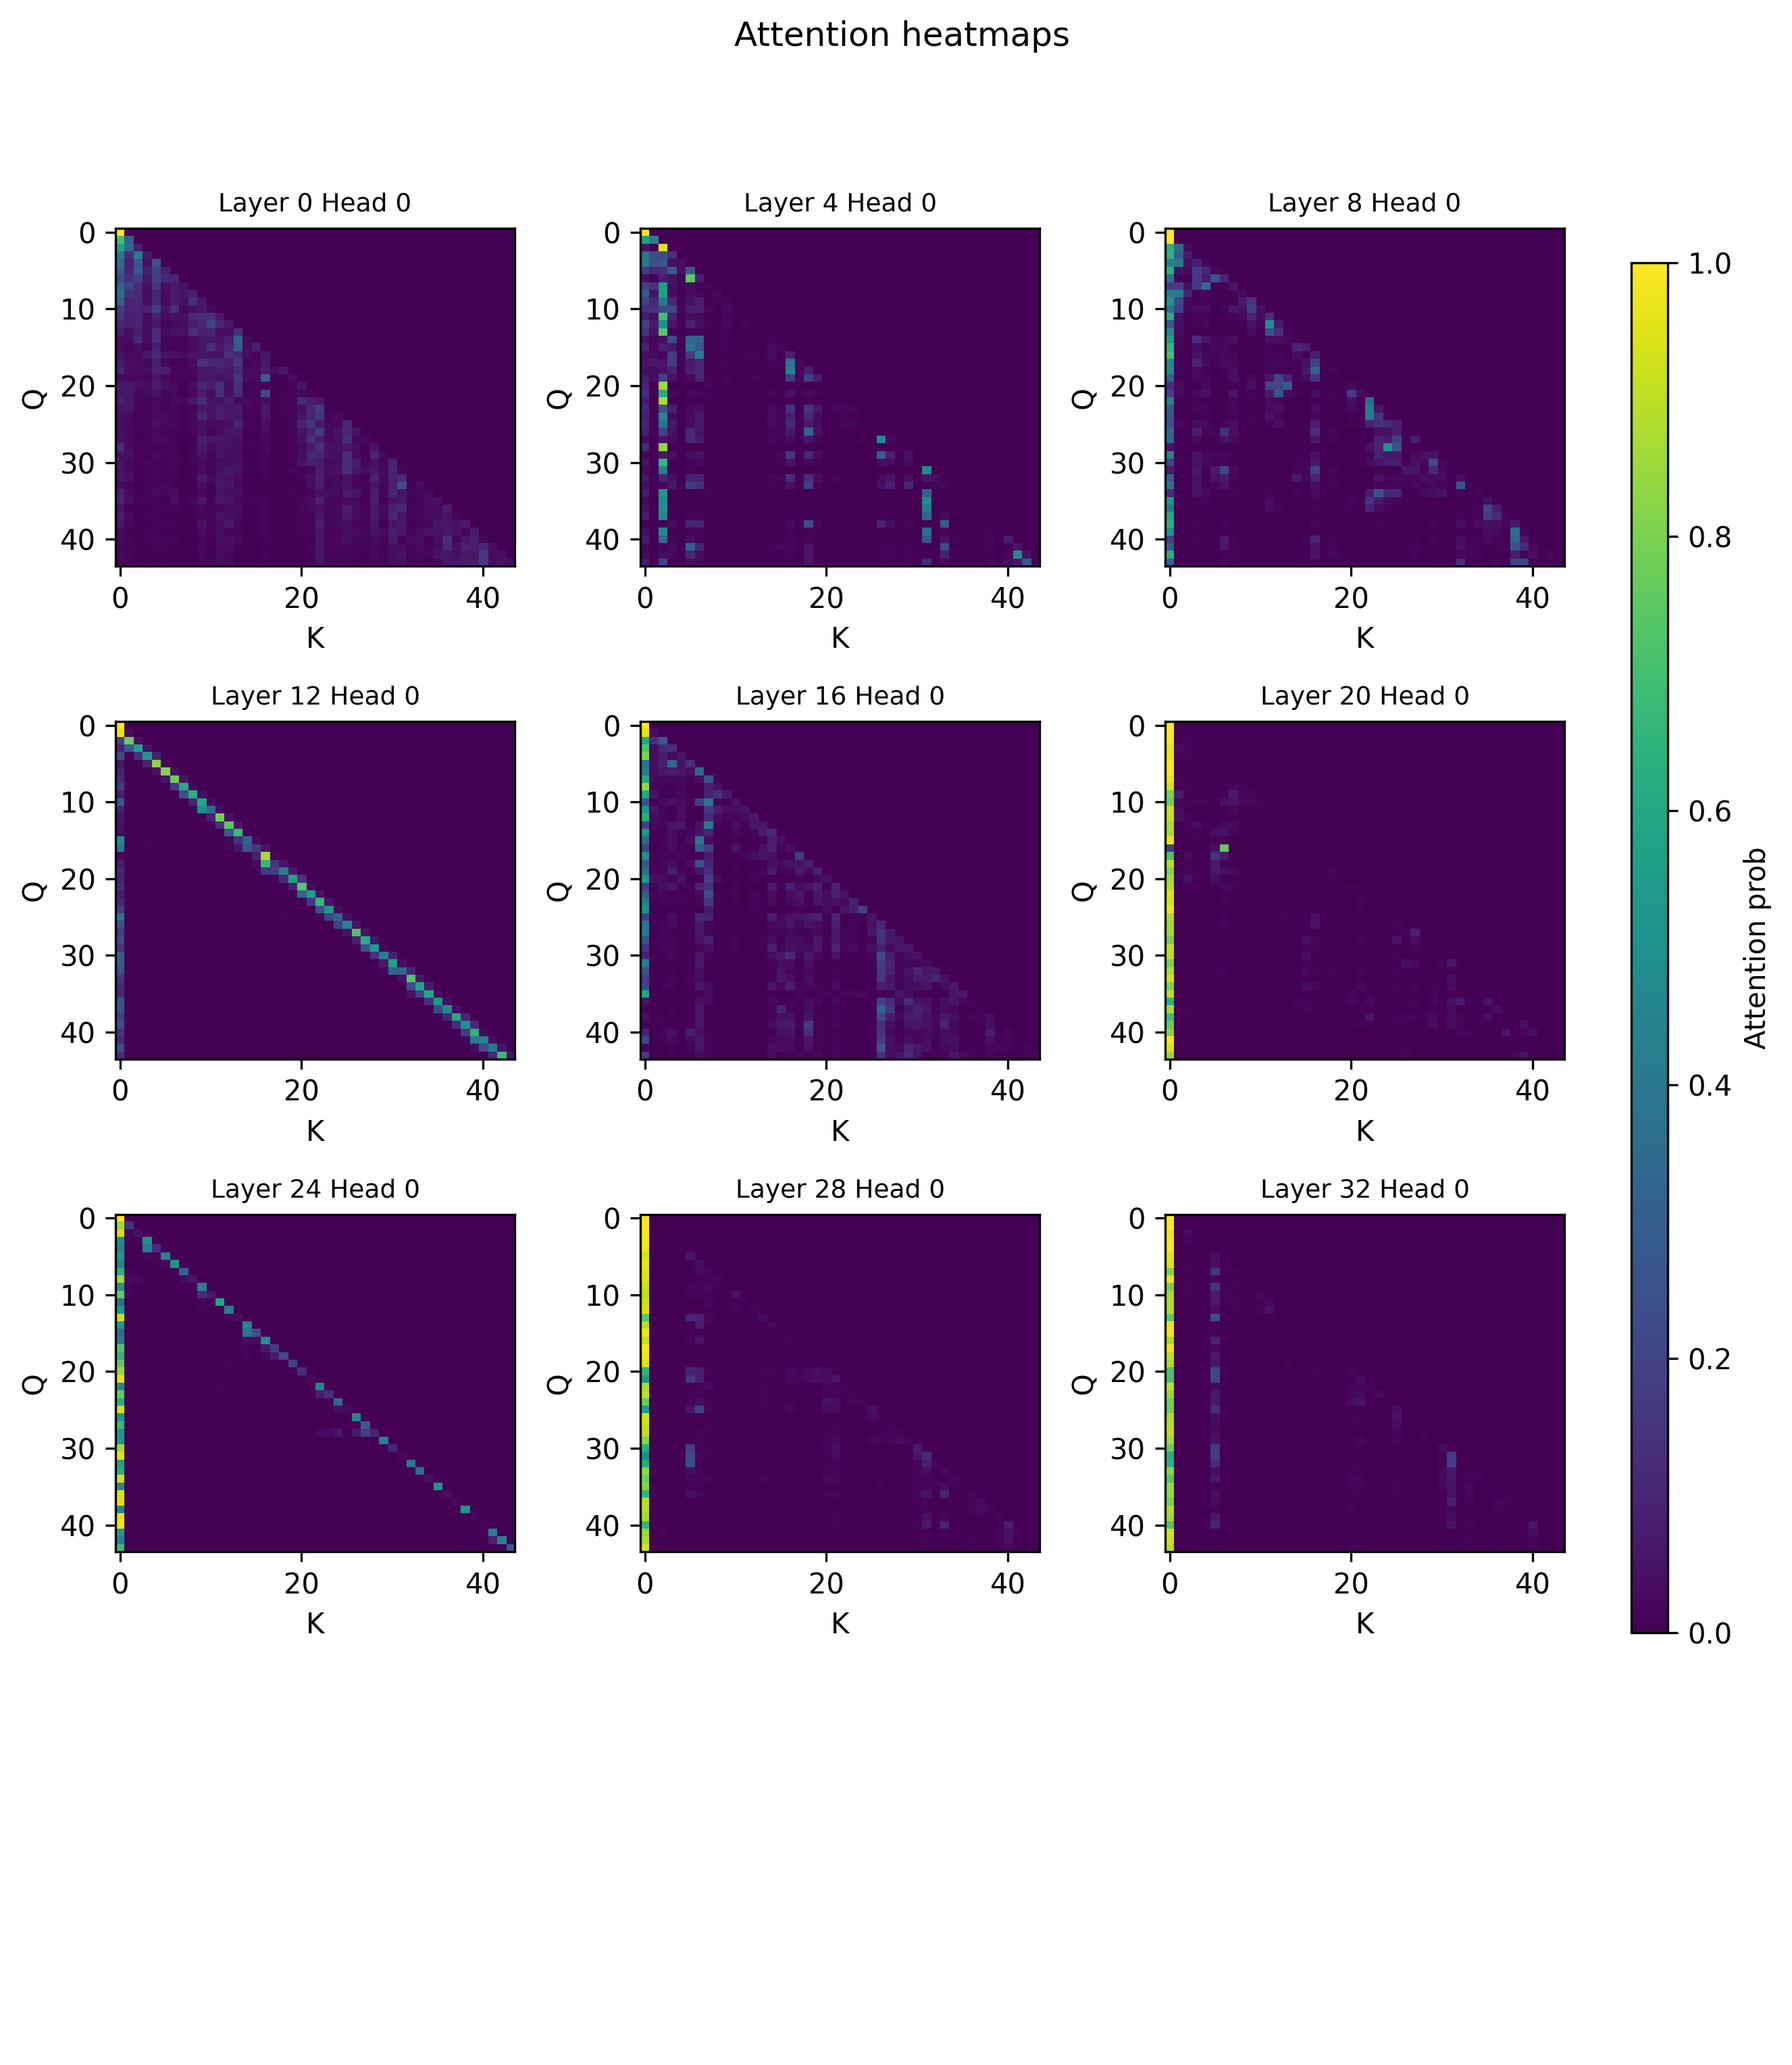
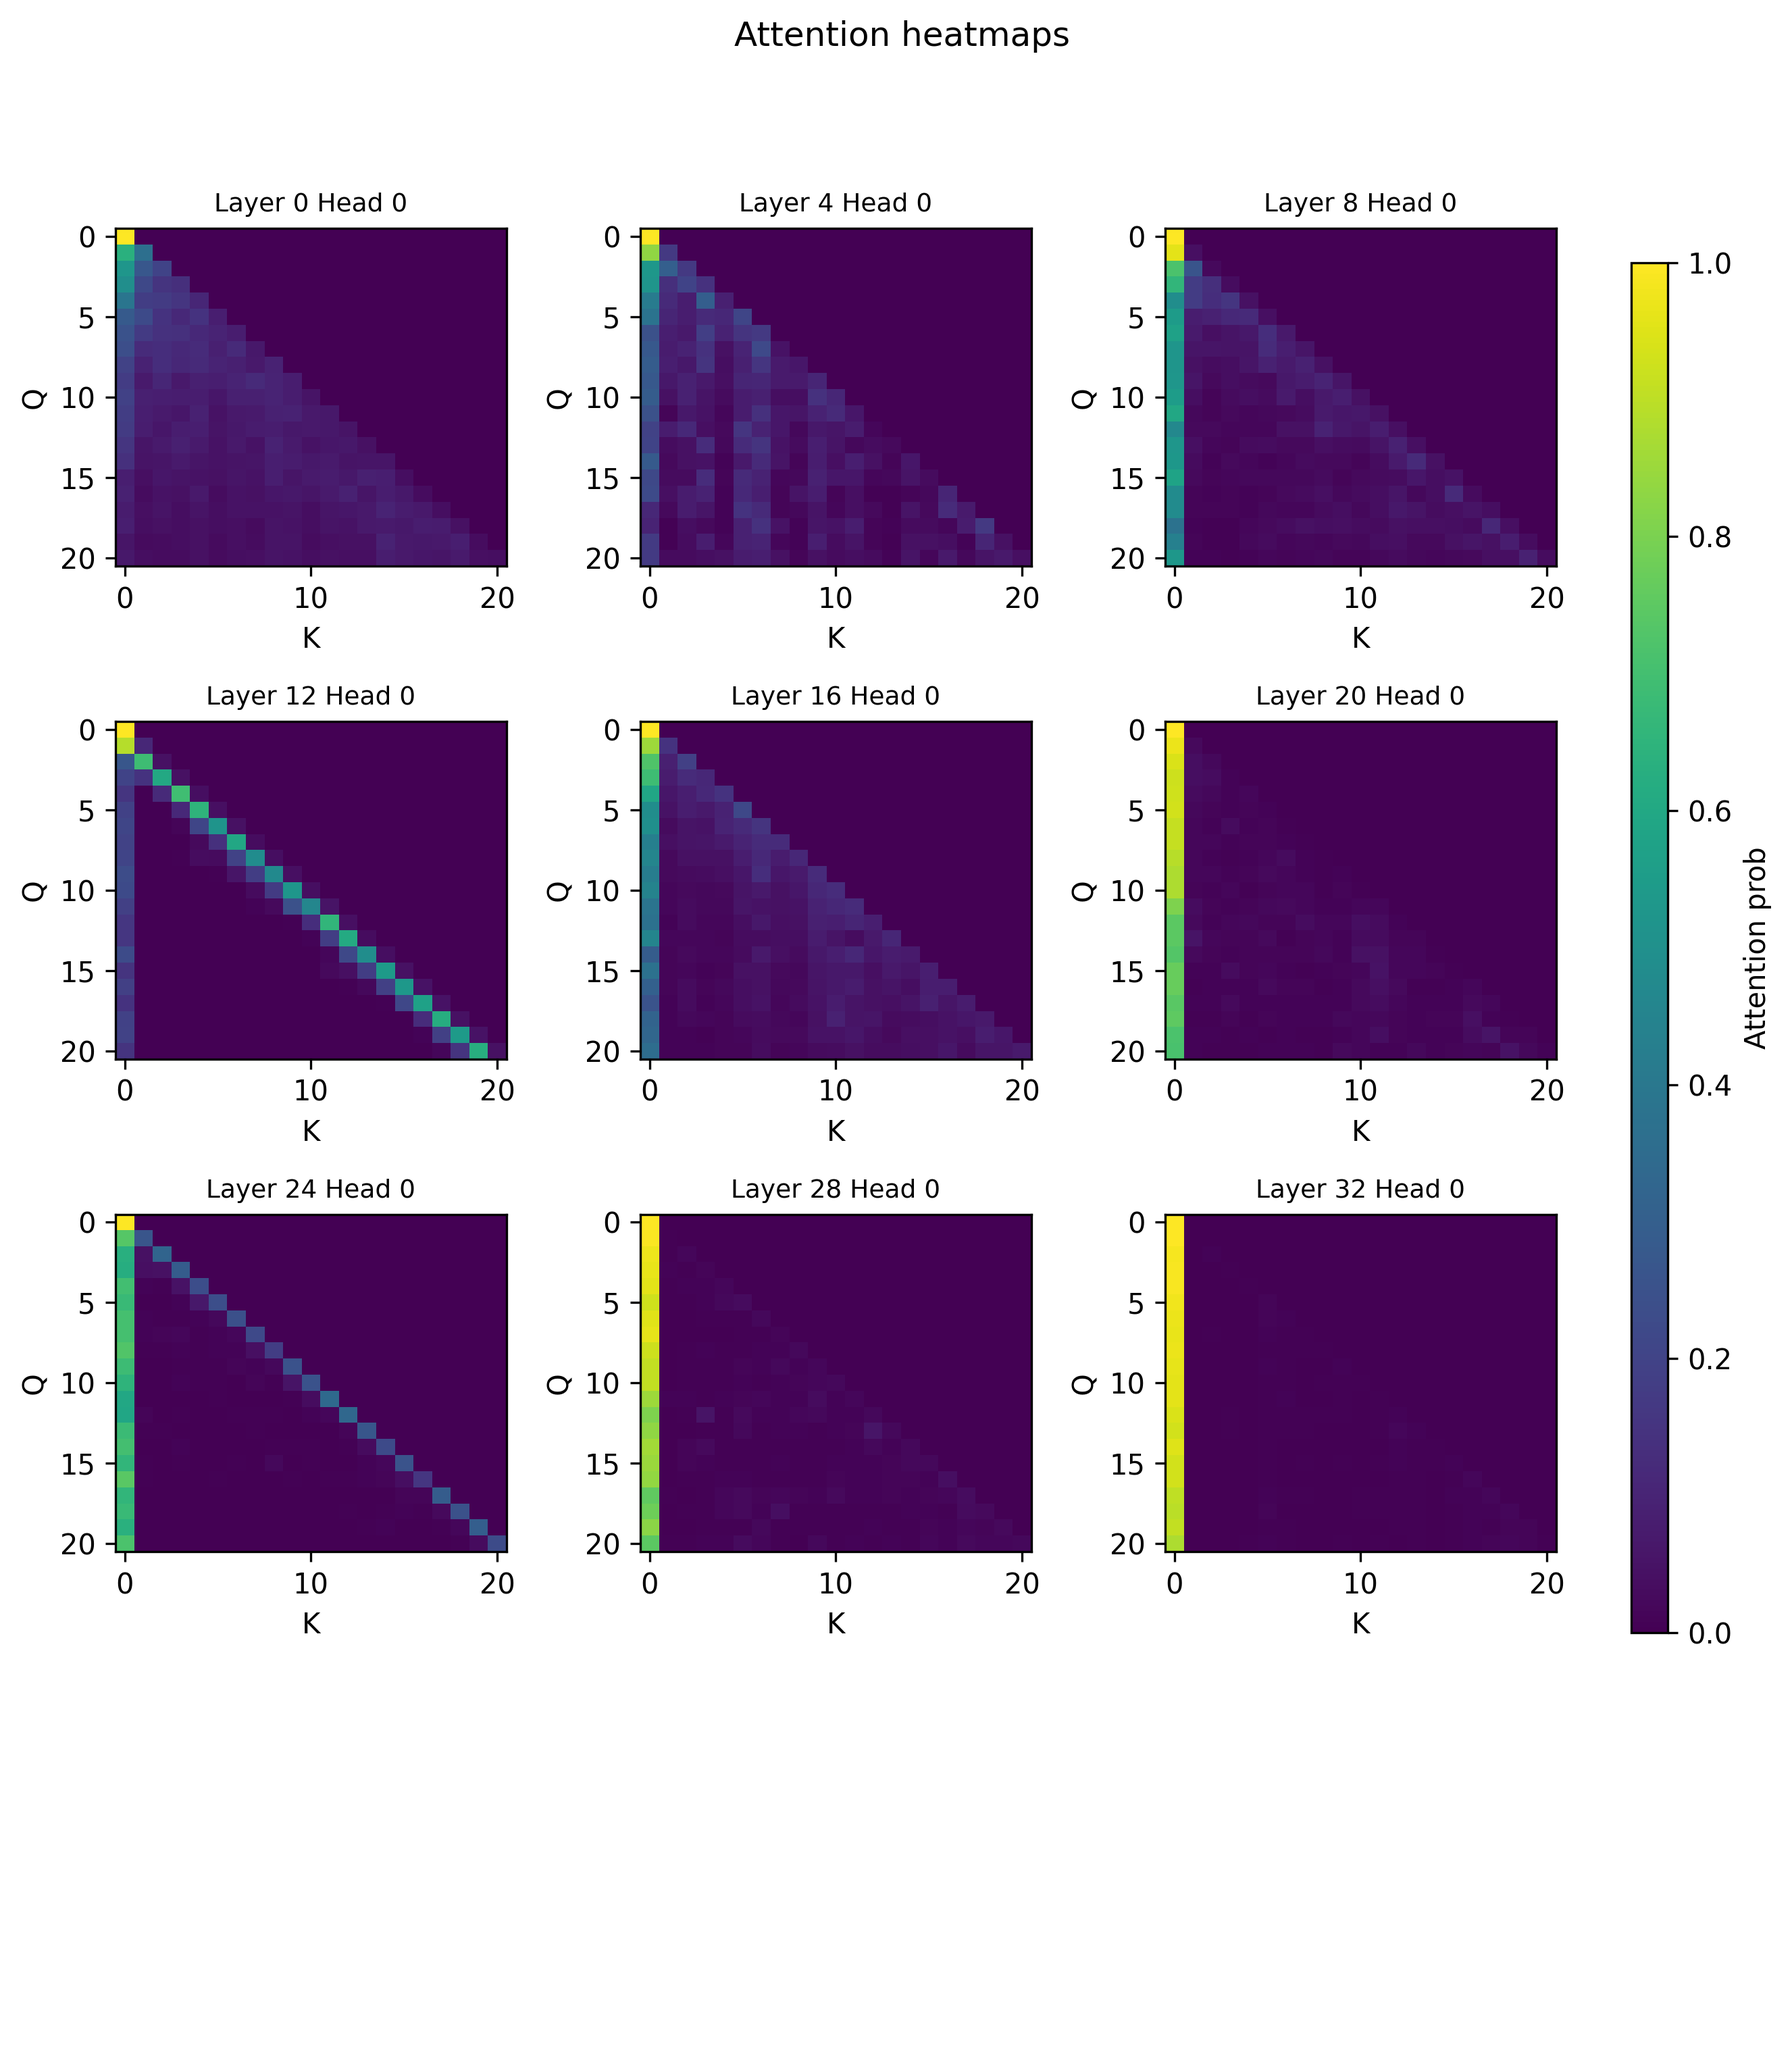
Added swapping exps

diff --git a/attention_sink/analyze_sink.py b/attention_sink/analyze_sink.py
@@ -10,6 +10,8 @@ python analyze_sink.py --scan \
 import argparse, os, numpy as np, torch, matplotlib.pyplot as plt, math
 from transformers import AutoTokenizer, AutoModelForCausalLM, AutoConfig
 import torch.nn.functional as F
+from tqdm import tqdm
+from matplotlib import ticker
 
 EPS = 1e-12
 PRINT_CHOICES = ["heatmap", "qkv"]
@@ -233,10 +235,13 @@ def _plot_heatmap_with_tag(head_attn, layer, head, outdir, tag="BASE", return_ma
 def _plot_attn(attn, title, out_path, suffix=""):
     plt.figure(figsize=(6, 4.5))
     im = plt.imshow(attn, aspect="auto", origin="lower", interpolation="nearest")
-    plt.gca().invert_yaxis()
-    plt.title(title)
-    plt.xlabel("K")
-    plt.ylabel("Q")
+    ax = plt.gca()
+    ax.invert_yaxis()
+    ax.set_title(title)
+    ax.set_xlabel("K")
+    ax.set_ylabel("Q")
+    ax.xaxis.set_major_locator(ticker.MultipleLocator(5))
+    ax.yaxis.set_major_locator(ticker.MultipleLocator(5))
     cbar = plt.colorbar(im)
     cbar.set_label("Attention prob")
     plt.savefig(_append_suffix(out_path, suffix), bbox_inches="tight", dpi=300)
@@ -304,6 +309,9 @@ def _plot_heatmap_grid(attn_maps, titles, out_path, rows=4, suffix="", suptitle=
             ax.set_xlabel("K")
             ax.set_ylabel("Q")
             ax.invert_yaxis()
+
+            ax.xaxis.set_major_locator(ticker.MultipleLocator(5))
+            ax.yaxis.set_major_locator(ticker.MultipleLocator(5))
         else:
             ax.axis("off")
     
@@ -344,6 +352,7 @@ def main():
     p.add_argument("--print", dest="print_mode", choices=PRINT_CHOICES, default="qkv")
     p.add_argument("--qpos", default=None, help="Comma-separated list of query positions for --print qkv, eg. '256,512,768")
     p.add_argument("--sink-idx", type=int, default=0, help="Index of the sink in qkv mode")
+    p.add_argument("--compare", action="store_true", help="Compare perturbed run vs baseline")
     # perturbations
     p.add_argument("--rope", default=None, help="Comma-separated list of token_idx=rope_pos, eg. '12=0,42=1")
     p.add_argument("--mask", default=None, choices=["upper"], help="Causal mask type")
@@ -354,6 +363,9 @@ def main():
     args = p.parse_args()
 
     tok, model = load_model(args.model, args.device, args.dtype, random_init=args.random_init)
+
+    if args.compare and args.print_mode == "heatmap":
+        raise NotImplementedError("--compare is only available for --print qkv")
 
     if args.prompt_file:
         prompts = _load_prompts_from_file(args.prompt_file)
@@ -368,6 +380,8 @@ def main():
         input_ids = tokenize(tok, text)
         base_pos = make_position_ids(input_ids.shape[1])
         tokenized.append((input_ids, base_pos))
+    print(f"[Tokenized] Tokens[0, 0] is {tokenized[0][0][0, 0]}")
+    print(f"[Tokenized] Tokens[0, 0] text is {tok.decode(tokenized[0][0][0, 0])}")
 
     os.makedirs(args.outdir, exist_ok=True)
 
@@ -385,6 +399,7 @@ def main():
         )
 
     scan_stats = [] # aggregated per layer
+    scan_stats_base = []
     scan_maps, scan_titles = [], []
 
     def _aggregate_qkv_for_layer(layer, head):
@@ -395,7 +410,7 @@ def main():
         q_positions = list(_parse_qpos(args.qpos, min_len)) # clamp to valid seq range
         sink_idx = max(0, min(min_len - 1, args.sink_idx)) 
         
-        for input_ids, base_pos in tokenized:
+        for input_ids, base_pos in tqdm(tokenized, desc="Aggregating QKV", position=1, leave=False):
             pos_ids_perturbed, _ = apply_perturbations(base_pos, rope_overrides=rope_overrides)
             attns, q, k, v = _forward_attn_and_qkv(model, input_ids, pos_ids_perturbed, layer, need_qkv=True)
             if q is None or k is None:
@@ -424,7 +439,7 @@ def main():
     def _aggregate_attn_score_for_layer(layer, head, tag):
         attn_maps = []
         min_len = min(ids.shape[1] for (ids, _bp) in tokenized)
-        for input_ids, base_pos in tokenized:
+        for input_ids, base_pos in tqdm(tokenized, desc="Aggregating attention scores", position=1, leave=False):
             pos_ids_perturbed, _ = apply_perturbations(base_pos, rope_overrides=rope_overrides)
             attns, _, _, _ = _forward_attn_and_qkv(model, input_ids, pos_ids_perturbed, layer, need_qkv=False)
             if hasattr(model, "_lower_attn_cache") and layer in model._lower_attn_cache:
@@ -442,7 +457,8 @@ def main():
             return None, None
 
     if args.scan:
-        for L in range(0, num_layers, 4):
+        # perturbed pass
+        for L in tqdm(range(0, num_layers, 4), desc="Scanning layers", position=0, leave=True):
             if args.print_mode == "qkv":
                 stats = _aggregate_qkv_for_layer(L, args.head)
                 scan_stats.append(stats)
@@ -455,6 +471,19 @@ def main():
                 if m is not None and t is not None:
                     scan_maps.append(m)
                     scan_titles.append(t)
+        
+        # baseline pass
+        if args.compare and args.print_mode == "qkv":
+            def _agg_baseline(layer, head):
+                nonlocal rope_overrides
+                tmp = rope_overrides
+                rope_overrides = None
+                try:
+                    return _aggregate_qkv_for_layer(layer, head)
+                finally:
+                    rope_overrides = tmp
+            for L in range(0, num_layers, 4):
+                scan_stats_base.append(_agg_baseline(L, args.head))
 
         if args.print_mode == "qkv" and len(scan_stats) > 0:
             scan_stats = sorted(scan_stats, key=lambda s: s["layer"])
